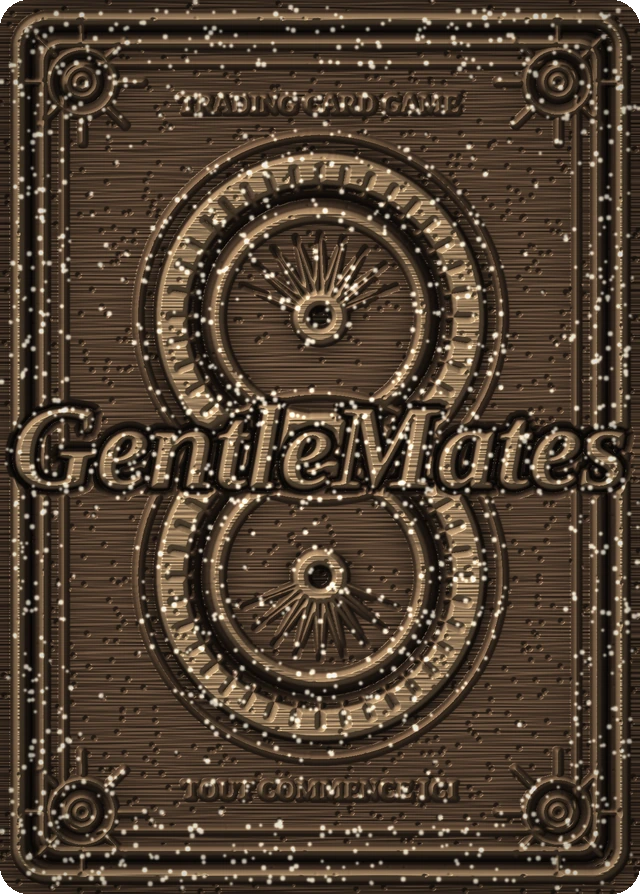
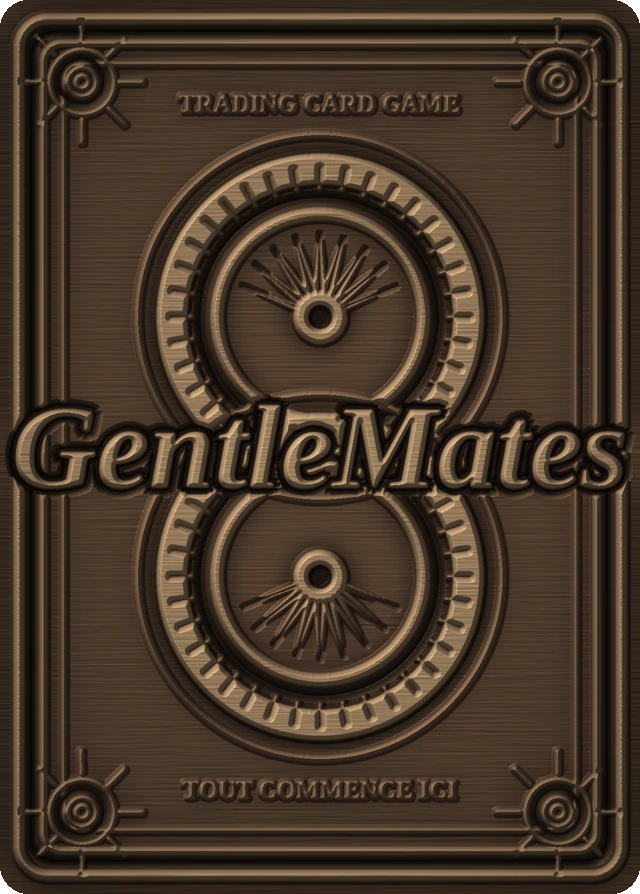
Publication du jeu (7f9385a)
Claude-Session: https://claude.ai/code/session_013NYQRi59VuWQVUAMPu5agi

diff --git a/css/style.css b/css/style.css
@@ -429,3 +429,11 @@ body.no-scroll { overflow: hidden; }
   .arena-bar, .pm-bar { font-size: .95rem; }
 }
 @media (min-width: 1100px) and (max-height: 820px) { #duelBoard .playmat { max-width: min(860px, calc((100vh - 120px) * 0.78)); } }
+
+/* ---------- Dos de carte officiel (bronze) ---------- */
+.card-back, .op-back, .pback {
+  background: url("../img/dos.webp") center / 100% 100% no-repeat; border: 0; color: transparent; font-size: 0;
+}
+.card-back { border-radius: 12px; } .pback { border-radius: 5px; box-shadow: 0 1px 4px #0008; }
+.op-back { border-radius: 16px; box-shadow: 0 10px 30px #000a; } .op-back span, .pback b { display: none; }
+.hand-backs i { background: url("../img/dos.webp") center / 100% 100% no-repeat; border: 0; border-radius: 2px; }

diff --git a/sw.js b/sw.js
@@ -1,5 +1,5 @@
 // Service worker : jeu jouable hors ligne (appli installée sur PC, tablette, téléphone).
-const VERSION = "gmtcg-v10";
+const VERSION = "gmtcg-v11";
 const SHELL = ["./", "index.html", "css/style.css", "js/app.js", "js/state.js", "js/cards.js", "js/cards-data.js", "js/cardview.js", "js/opening.js", "js/friends.js", "js/pvp.js", "js/pvp-net.js", "js/sound.js", "js/account.js", "js/config.js", "js/duel-ui.js", "js/engine/core.js", "js/engine/effects.js", "js/engine/ai.js", "js/engine/deck.js",
   "manifest.webmanifest", "icons/icon-192.png", "icons/icon-512.png"];
 
